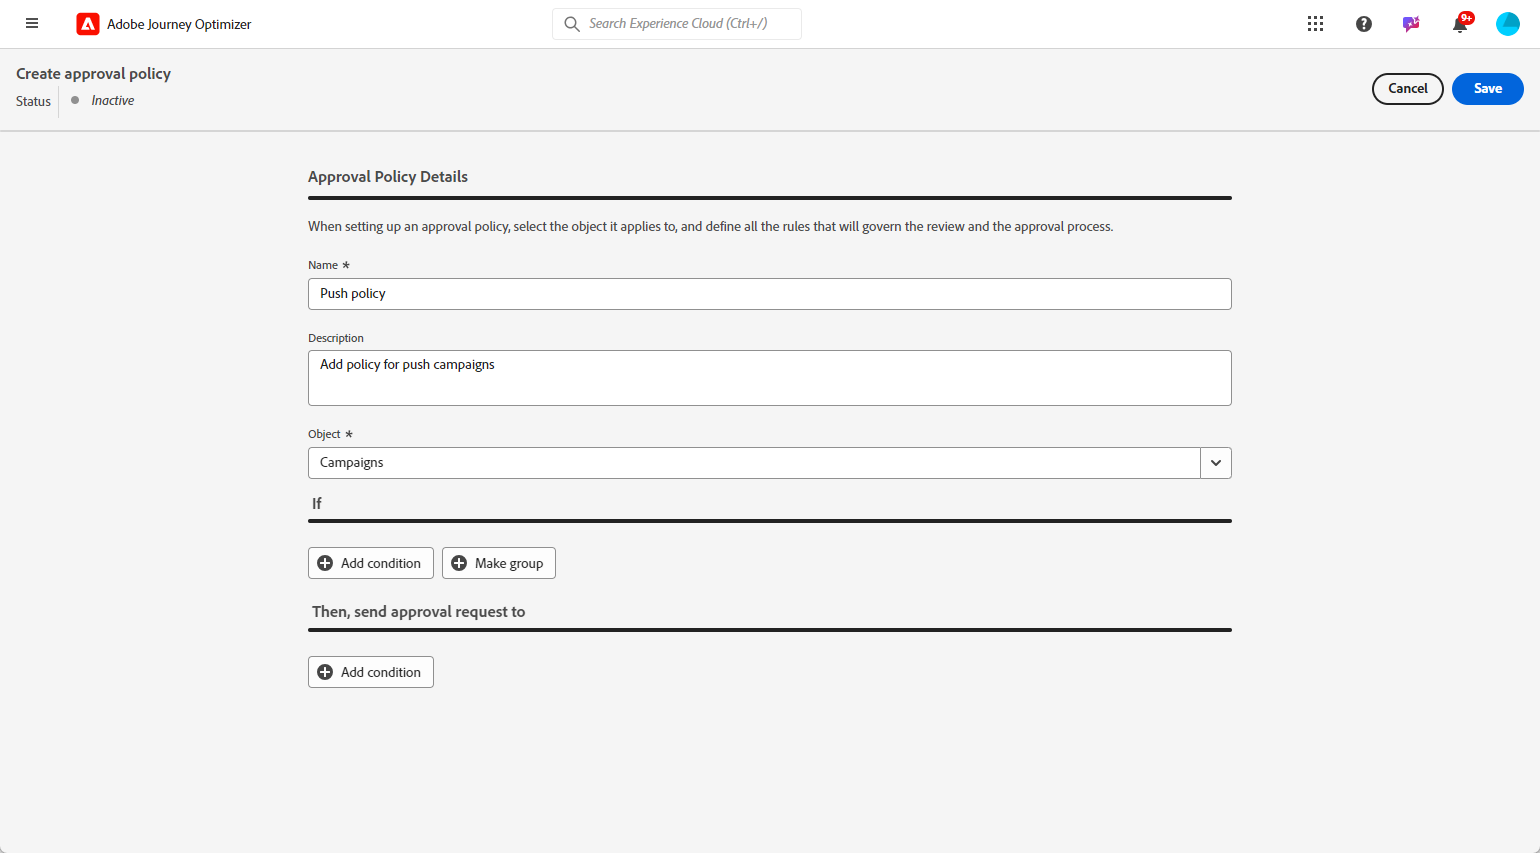
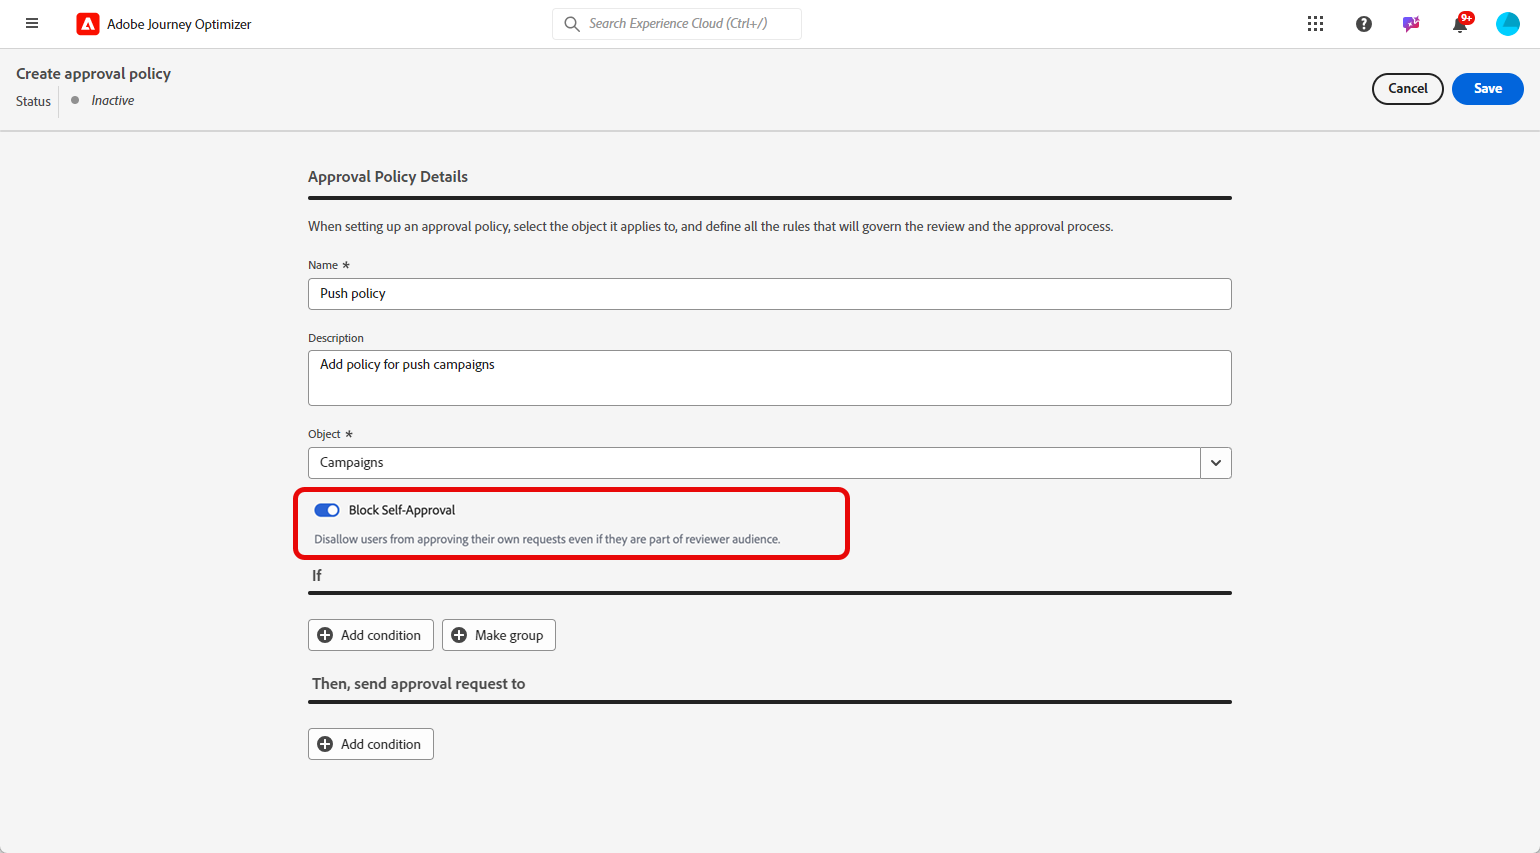
DOCAC-13472

Changed region(s): [[0.187, 0.5487, 0.8104, 0.823], [0.187, 0.8535, 0.2805, 0.8839]]

diff --git a/help/using/test-approve/approval-policies.md b/help/using/test-approve/approval-policies.md
@@ -45,6 +45,8 @@ To create an approval policy, follow these steps:
 
 1. Select whether the policy will apply to **[!UICONTROL Journeys]** or **[!UICONTROL Campaigns]**.
 
+1. Enable the **[!UICONTROL Block self-approval]** to prevent Journey/Campaign creators from approving their own objects.
+
     ![](assets/policy_create_2.png)
 
 You can now refine the conditions to specify who can initiate the approval request and who can validate it.
